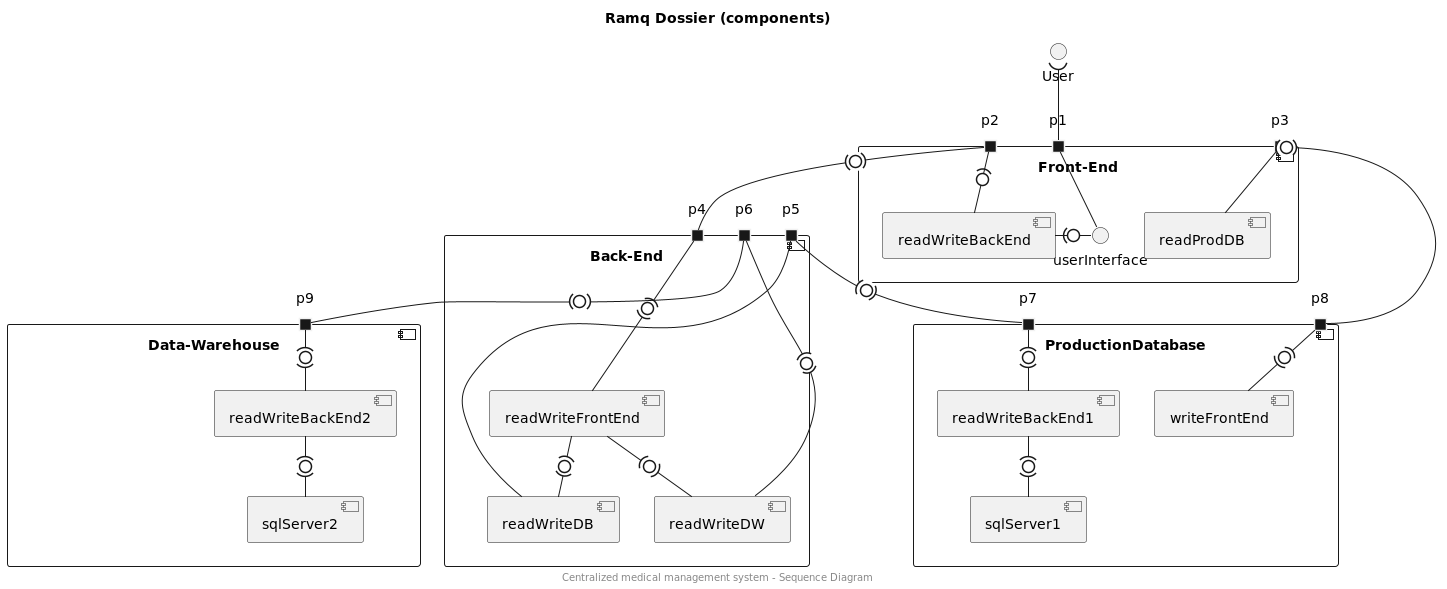
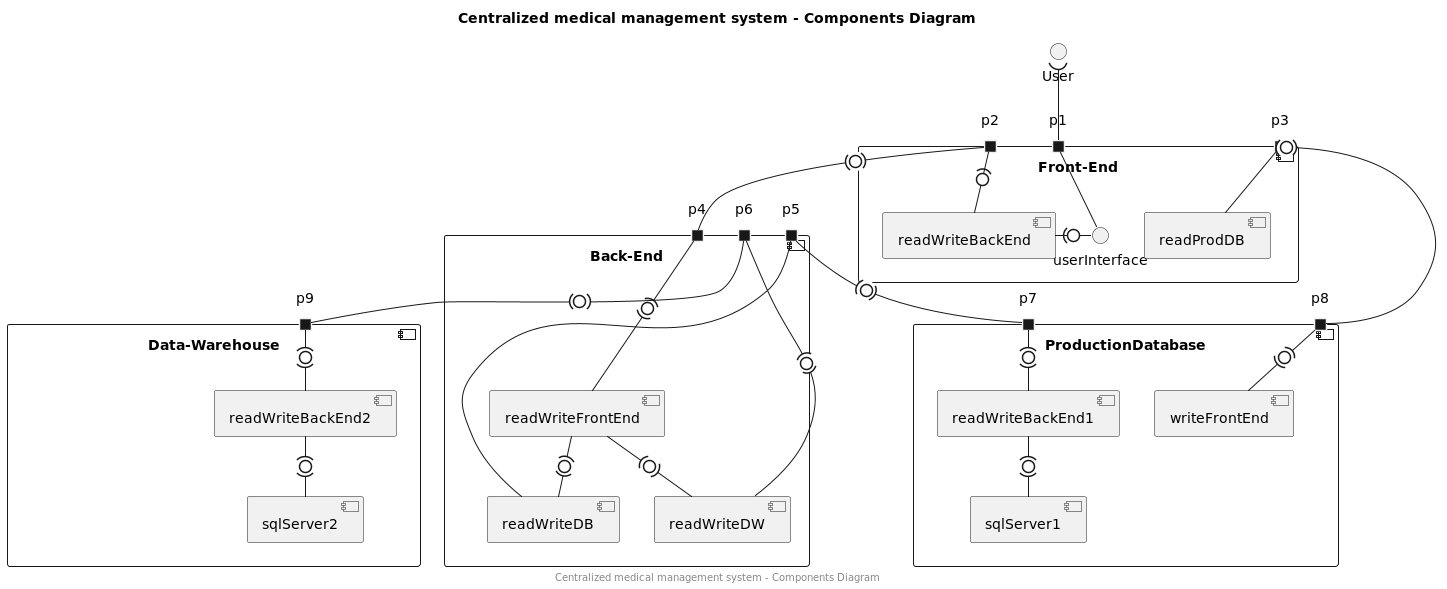
Complète le rapport (codage par pairs)

Changed region(s): [[0.311, 0.0, 0.6842, 0.0611], [0.3732, 0.9779, 0.622, 1.0]]

diff --git a/partie1.md b/partie1.md
@@ -3,11 +3,11 @@
 <br><br>
 <br><br>
 <br><br>
-<p style="text-align: center;">Rapport de conception projet de session
+<p style="text-align: center;">Rapport de conception projet de session</p>
 
-<p style="text-align: center;">Présenté au professeur Gagnely Serge Dogny
+<p style="text-align: center;">Présenté au professeur Gagnely Serge Dogny</p>
 
-<p style="text-align: center;">dans le cadre du cours INF5153 Génie Logiciel: Conception
+<p style="text-align: center;">dans le cadre du cours INF5153 Génie Logiciel: Conception</p>
 <br><br>
 <br><br>
 <br><br>
@@ -17,10 +17,10 @@
 <br><br>
 <br><br>
 <br><br>
-<p style="text-align: center;">Steven Chia Ah-Lan - AHLS12109105
-<p style="text-align: center;">Alexandre Filion - FILA09128609 
-<p style="text-align: center;">Mohand Amine Saïdi - SAIM15029603
-<p style="text-align: center;">Nicolas Goulet - GOUN12109401
+<p style="text-align: center;">Steven Chia Ah-Lan - AHLS12109105</p>
+<p style="text-align: center;">Alexandre Filion - FILA09128609</p>
+<p style="text-align: center;">Mohand Amine Saïdi - SAIM15029603</p>
+<p style="text-align: center;">Nicolas Goulet - GOUN12109401</p>
 <br><br>
 <br><br>
 <br><br>
@@ -71,15 +71,15 @@
 
 
 
-# Diagramme de classes
+# 1. Diagramme de classes
 
 ![Diagramme de classes](./Models/pngs/ClassDiagram.png)
 
-## Justfications des patrons GRASP
+##1.1 Justfications des patrons GRASP
 
 ### PatientRegistry et DoctorRegistry
--Ces deux classes représentent des conteneurs d'information dans le système. Par exemple, elles pourraient 
-faire partie d'une base de données.`PatientRegistry` contient les dossiers des patients, 
+-Ces deux classes représentent des conteneurs d'information dans le système, puisqu'elles pourraient 
+faire partie d'une base de données par exemple.`PatientRegistry` contient les dossiers des patients, 
 et `DoctorRegistry` contient les informations sur les docteurs. Nous utilisons le patron *Créateur* vu 
 que nous observons une relation de composition. En implémentant l'interface `Registry`, les clases `PatientRegistry` 
 et `DoctorRegistry` permettent l'instanciation des dossiers patients et des médecins, respectivement. 
@@ -113,7 +113,7 @@ de `User`.
 -`Doctor` a le devoir de gérer le dossier médical. Par conséquent, cette classe se comporte en 
 consultant le dossier ou en y apportant des modifications. Le patron *Faible couplage* justifie son 
 instanciation, car le `Doctor` possède un couplage faible avec le `PatientFile`. Effectivement, le 
-`PatientFile` est passé en tant que paramètre dans les méthodes privées de `Doctor` au lieu d'avoir 
+`PatientFile` est passé en tant que paramètre dans les méthodes de `Doctor` au lieu d'avoir 
 une relation directe avec ce dernier, ce qui affaiblit le couplage entre ces deux classes. 
 
 -La méthode `modify()` est publique car `Doctor` implémente l'interface `Modifiable`, qui permet
@@ -160,7 +160,7 @@ accesseur publique qui retourne les informations de contact sans exposer des obj
 inappropriée, car `ContactInformation` ne contient pas de référence vers d'autres objets.
 
 
-# Diagramme des cas d'utilisation 
+# 2. Diagramme des cas d'utilisation 
 
 ![Diagramme de cas d'utilisation](./Models/pngs/UseCasesDiagram.png)
 
@@ -180,7 +180,7 @@ médecin, la modification d'un dossier doit être obligatoirement précédée pa
 -L'acteur 'OtherHealthProfessionals' est inclus pour illustrer le fait que les autres
 professionnels de la santé (pharmacien, infirmiers, etc.) peuvent consulter le dossier du patient.
 
-# Diagrammes de séquences 
+# 3. Diagrammes de séquences 
 
 Chaque diagramme de séquence représente un cas d'utilisation à
 haut niveau. Nous faisons abstraction des détails d'implémentation afin
@@ -195,35 +195,35 @@ d'illustrer la fonctionnalité à une haute granularité.
 - Database : la base de données qui centralise tous les dossiers médicaux des patients
 
 
-## login  
+## 3.1 login  
 Ce diagramme illustre la fonctionnalité d'authentification à haut niveau.
 L'utilisateur interagit avec le système en entrant ses identifiants. Le système communique
 par la suite avec la base de données pour valider l'authentification. Le profile
 de l'utilisateur est affiché en cas de succès. En cas d'échec, un message d'erreur est affiché.
 ![Diagramme de séquence](./Models/pngs/SequenceDiagram-login.png)
 
-## modifyContactInfo  
+## 3.2 modifyContactInfo  
 Ce diagramme illustre la fonctionnalité de modification des coordonnées d'un patient par lui-même. Le patient peut
 modifier ses coordonnées en entrant dans le système les nouvelles coordonnées. Le système s'occupe de mettre-à-jour
 les coordonnées du patient dans la base de données. En cas de succès, un message de succès et affiché. En cas d'échec,
 un message d'erreur est affiché.
 ![Diagramme de séquence](./Models/pngs/SequenceDiagram-modifyContactInfo.png)
 
-## reconstructPatientFile  
+## 3.3 reconstructPatientFile  
 Ce diagramme illustre la fonctionnalité de reconstruire le dossier médical d'un patient à partir d'une date donnée ou
 d'une modification faite dans le passé. L'utilisateur RAMQ entre les informations nécessaires dans le système et
 ce dernier envoie ces informations à l'interface. En cas de succès, un message de succès et affiché.
 En cas d'échec, un message d'erreur est affiché.
 ![Diagramme de séquence](./Models/pngs/SequenceDiagram-reconstructPatientFile.png)
 
-## consultPatientFile  
+## 3.4 consultPatientFile  
 Ce diagramme illustre la fonctionnalité de consultation d'un dossier médical d'un patient par un utilisateur.
 La consultation inclus les informations suivantes du patient : son identité, ses antécédents médicaux
-et ses visites médicales. L'utilisateur demande au système quel aspect du dossier médical il désire consulter
-et cela va s'afficher à l'écran.
+et ses visites médicales. L'utilisateur choisit quel aspect du dossier sera affiché à l'écran par le système. 
+
 ![Diagramme de séquence](./Models/pngs/SequenceDiagram-consultPatientFile.png)
 
-## modifyPatientFile  
+## 3.5 modifyPatientFile  
 Ce diagramme illustre la fonctionnalité de modification d'un dossier médical d'un patient par le docteur. Selon le
 choix du docteur, il peut ajouter ou retirer une modification d'un dossier médical d'un patient.
 Lors d'une modification, le système la garde en mémoire jusqu'à temps que le docteur quitte le dossier du patient. 
@@ -233,7 +233,7 @@ sont envoyées dans la base de données, sinon elles sont éliminées.
 ![Diagramme de séquence](./Models/pngs/SequenceDiagram-modifyPatientFile.png)
 
 
-# Diagramme de packages
+# 4. Diagramme de packages
 ![Diagramme de packages](./Models/pngs/PackageDiagram.png)
 
 Le diagramme de packages est une représentation haut niveau (sans attributs ni méthodes) qui regroupe 
@@ -244,12 +244,12 @@ classes qui se chargeront d'implémenter l'interface utilisateur. La séparation
 fait naturellement à partir du diagramme de classes. Effectivement, les paquets se lient par leurs
 classes de la même manière que les classes se lient entre elles dans le diagramme de classes.
 
-# Diagramme de composantes
+# 5. Diagramme de composantes
 ![Diagramme de composantes](./Models/pngs/ComponentsDiagram.png)
 
 Il est à noter pour ce diagramme que nous avons fait le choix de représenter les interfaces entre les composantes comme se consommant
 des deux côtés, puisque doubler le nombre de ports dans le diagramme (un pour chaque entrée, un pour chaque sortie)
-rendait vraiment lourd et difficile la lecture du diagramme.
+rendait lourde et difficile la lecture du diagramme.
 
 Notre application sera composée des composantes suivantes :
 
@@ -268,7 +268,7 @@ lecture du front-end. C'est elle qui contient l'état actuel des dossiers médic
 - La data warehouse, qui contient l'historique des modifications de la base de données. Elle peut fournir au back-end
 l'information nécessaire pour faire basculer à un état antérieur la base de données.
 
-# Diagramme de déploiement
+# 6. Diagramme de déploiement
 ![Diagramme de déploiement](./Models/pngs/DeployementDiagram.png)
 
 Pour le déploiement de notre application, nous devrons garder actif au moins quatre serveurs 
